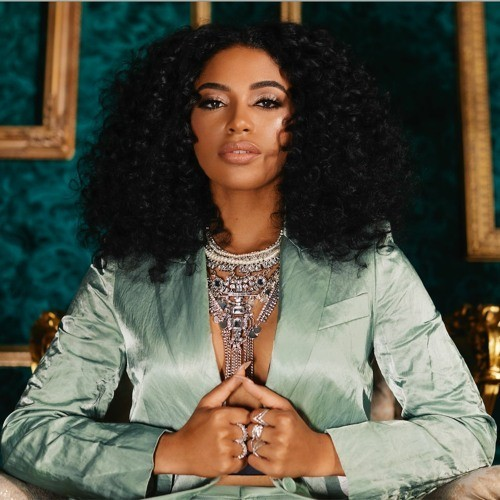
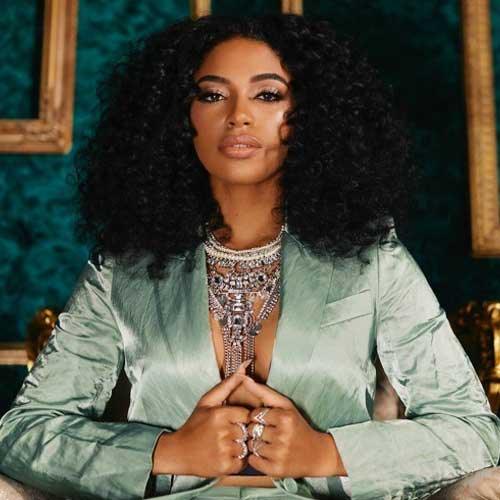
sponser img position

diff --git a/css/sponser.css b/css/sponser.css
@@ -26,6 +26,7 @@ section:nth-of-type(3){
 }
 .sponser-container .sponser-content .sponser-nav .nav-area nav li{
     font-family: 'Orbitron', sans-serif; font-weight: 100; font-size: 1.5rem; margin-bottom:7%;text-transform: uppercase; letter-spacing: 1px;
+    cursor: pointer;
 }
 .sponser-container .sponser-content .sponser-area{
     width: 70%;height: 100%;position: absolute;
@@ -98,17 +99,17 @@ section:nth-of-type(3){
     display: flex;  align-items: center;
 } 
 .musician-container .musician-content .musician-image{
-    width: 40%; height: 80%; 
+    width: 40%; height: 50%; 
    position: relative;
 } 
 
 .musician-container .musician-content .musician-image img{
    position: absolute; top: 40%; left: 50%; transform: translate(-50%,-40% );
-   width: 400px; height: 400px;z-index: 700;
+   width: 90%; height: auto;z-index: 700;
 } 
 .musician-container .musician-content .musician-image span {
-    border: solid 1px #95ff00; width: 400px; height: 400px;
-    position: absolute; top:50%; left: 50%; transform: translate(-45%,-55% );
+    border: solid 1px #95ff00; width: 90%; height: 90%;
+    position: absolute; top:50%; left: 50%; transform: translate(-45%,-45% );
 }
 .musician-container .musician-content .musician-text{
    width: 50%; height: 80%; margin-left: 2%;
@@ -132,14 +133,16 @@ section:nth-of-type(3){
  }
  .musician-container .musician-content .musician-text .musician-title .musician-btn button span{
     position: absolute; clip-path: polygon(100% 0, 0 50%, 100% 100%);
-    background-color: white;  width: 40%; height: 100%; top:0;
+    background-color: white;  width: 50%; height: 100%; top:0;transition: 0.3s ease-in-out;
+  }
+  .musician-container .musician-content .musician-text .musician-title .musician-btn button:hover span{
+    background-color: #95ff00;transition: 0.3s ease-in-out;
   }
  .musician-container .musician-content .musician-text .musician-title .musician-btn button:last-of-type span{
     transform: scale(-1);
   }
 .musician-container .musician-content .musician-text .musician-title h3{
-    font-family: 'Orbitron', sans-serif; font-size: 2rem;
-}
+    font-family: 'Orbitron', sans-serif; font-size: 2rem; color:#95ff00;}
 .musician-container .musician-content .musician-text .musician-info{
     width: 100%; height: 50%; display: flex; flex-direction: column;
     margin-top:2%;
@@ -149,7 +152,8 @@ section:nth-of-type(3){
     margin-bottom:2%;
 }
 .musician-container .musician-content .musician-text .musician-info p{
-    font-family: 'Noto Sans KR', sans-serif; font-size: 1rem; font-weight: 100; line-height: 1.2rem;
+    font-family: 'Noto Sans KR', sans-serif; font-size: 0.9rem; font-weight: 100; line-height: 1.2rem;
+    text-align: justify;
 }
 .musician-container .musician-content .musician-text .musician-sns h4{
     font-family: 'Orbitron', sans-serif; font-size: 1.2rem; font-weight: 300;
@@ -159,6 +163,6 @@ section:nth-of-type(3){
     height: 20%;
 }
 .musician-container .musician-content .musician-text .musician-sns .sns-imgs img{
-    width: 40px; margin-right: 2%;
+    width: 40px; margin-right: 5%; cursor: pointer;
 }
 
